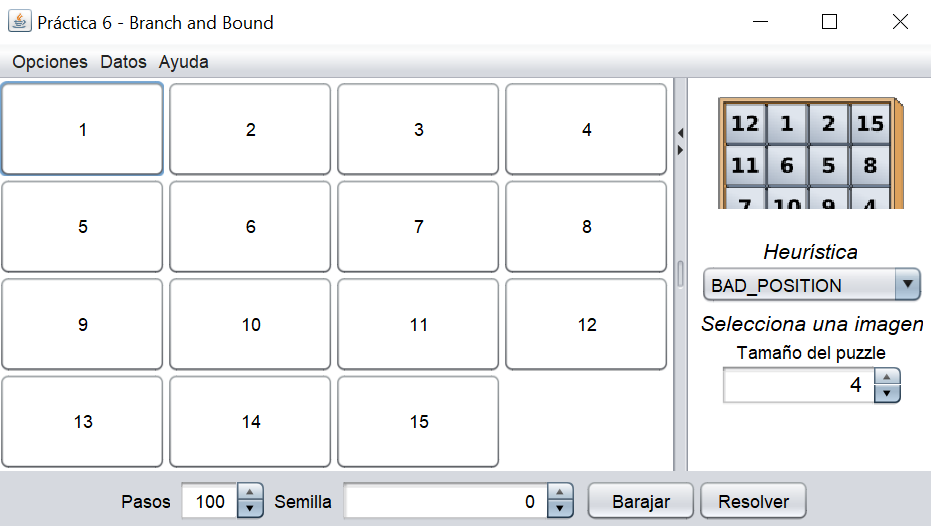
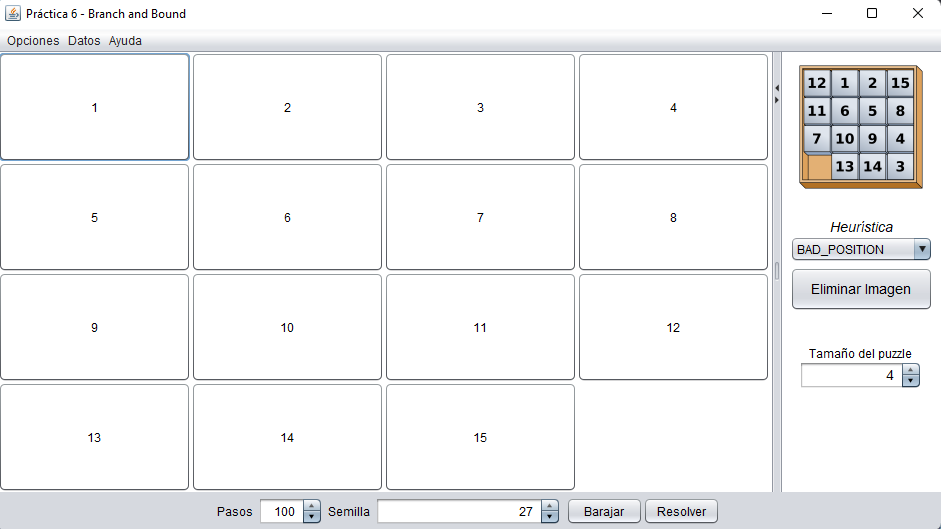
update

diff --git a/6_BandB/assets/user-manual.html b/6_BandB/assets/user-manual.html
@@ -31,7 +31,7 @@
 	<br>
 	<p>En la primera se sitúan las acciones para salir del programa y para iniciar las ventanas de estadísticas.</p>
 	<br>
-	<p>En la segunda opción llamada "Datos" encontramos la opción para crear una base de datos y cargar los datos.</p>
+	<p>En la segunda opción llamada "Datos" encontramos en primer lugar, la opción para crear una base de datos y cargar los datos. Por otra parte, tenemos la opción de cargar una imagen directamente.</p>
 	<br>
 	<p>En la tercera opción se encuentra un menú desplegable con un manual de usuario con la explicación del funcionamiento de la aplicación.</p>
 
@@ -48,7 +48,7 @@
 	  <li>LINEAR CONFILT</li>
 	</ul>
 	<br>
-	<p>Debajo de este, se encuentra un selector para escoger una imagen y resolver el mismo problema pero con imagen para que sea más visual.</p>
+	<p>Debajo de este, se encuentra un botón para eliminar la imagen actual y volver a la primera pantalla</p>
 	<br>
 	<p>En tercer lugar se encuentra la opción para seleccionar el tamaño del puzzle, el tamaño mínimo será de 2x2 y el tamaño máximo de 10x10.</p>
 
@@ -71,7 +71,7 @@
 	<br>
 	<p>Tras ejecutar el algoritmo, se mostrará al usuario paso por paso como se resuelve el mismo.</p>
 	<br>
-	<p>A partir de aquí, el usuario puede salir del programa con el botón del menú, cargar información en la base de datos, cambiar la heurística, el tamaño del puzzle o las imágenes y ver estadísticas de la ejecución</p>
+	<p>A partir de aquí, el usuario puede salir del programa con el botón del menú, cargar información en la base de datos, cargar una imagen, cambiar la heurística, el tamaño del puzzle o las imágenes y ver estadísticas de la ejecución</p>
 
 </body>
 
